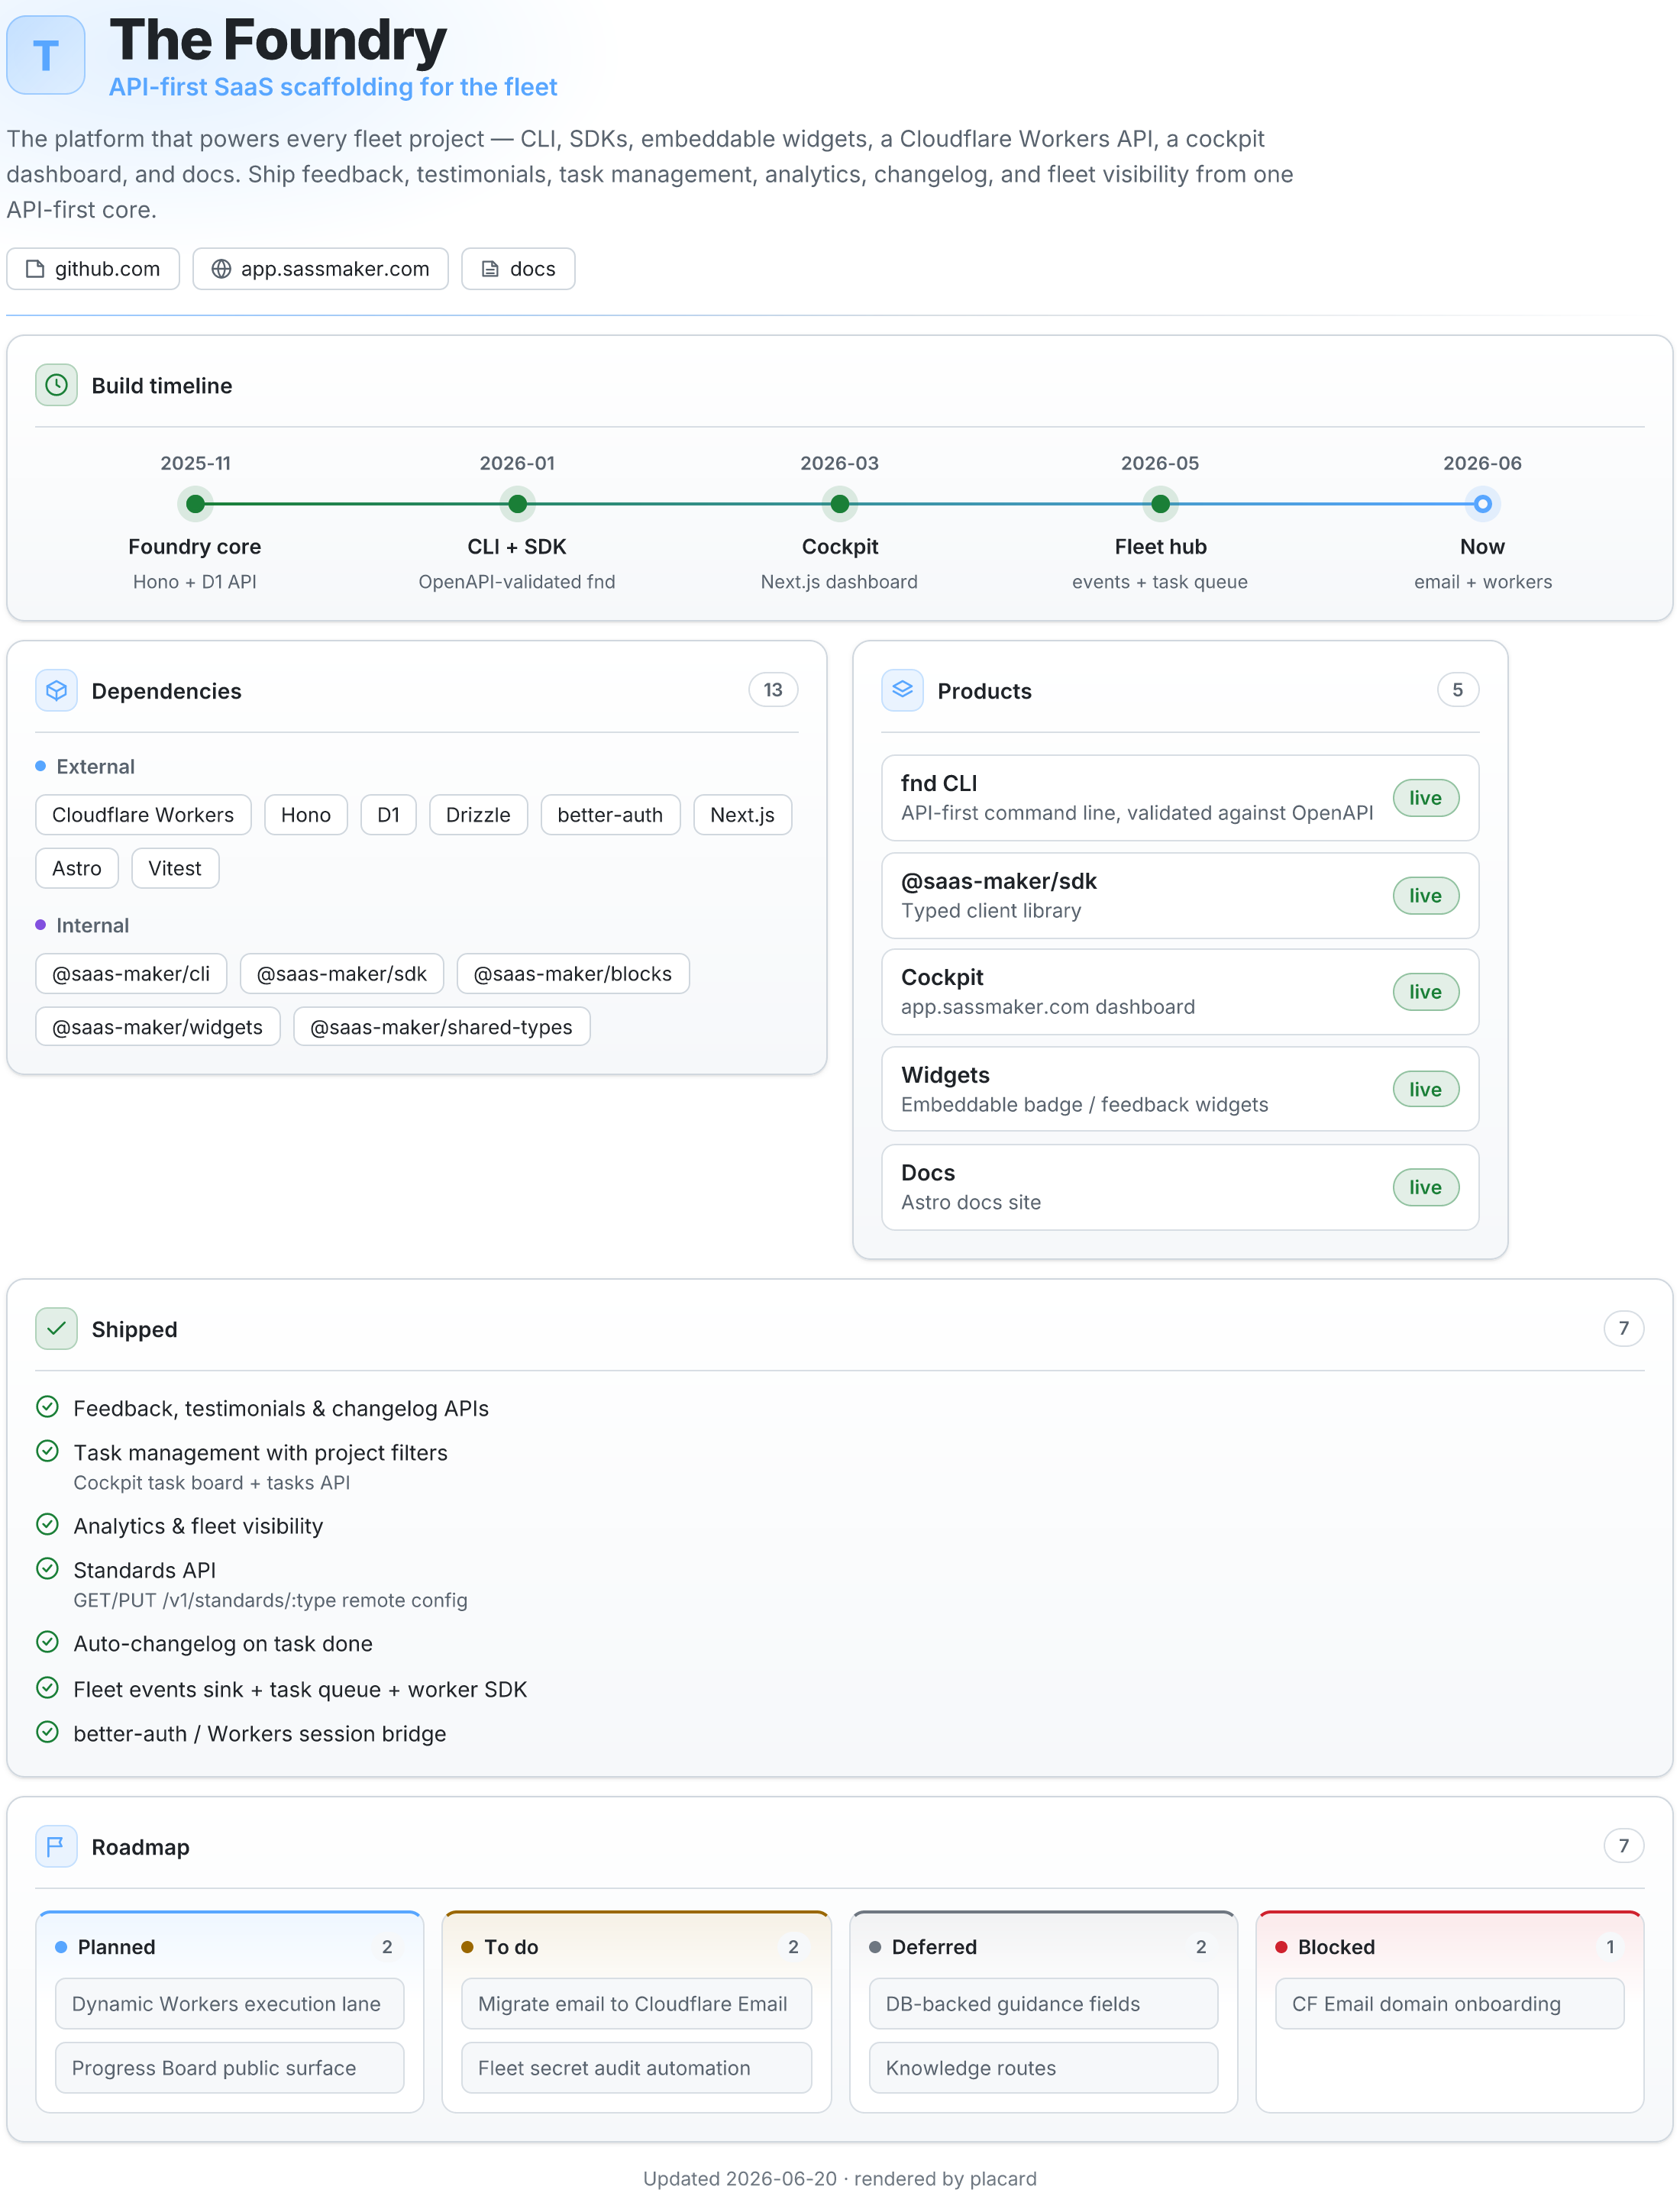
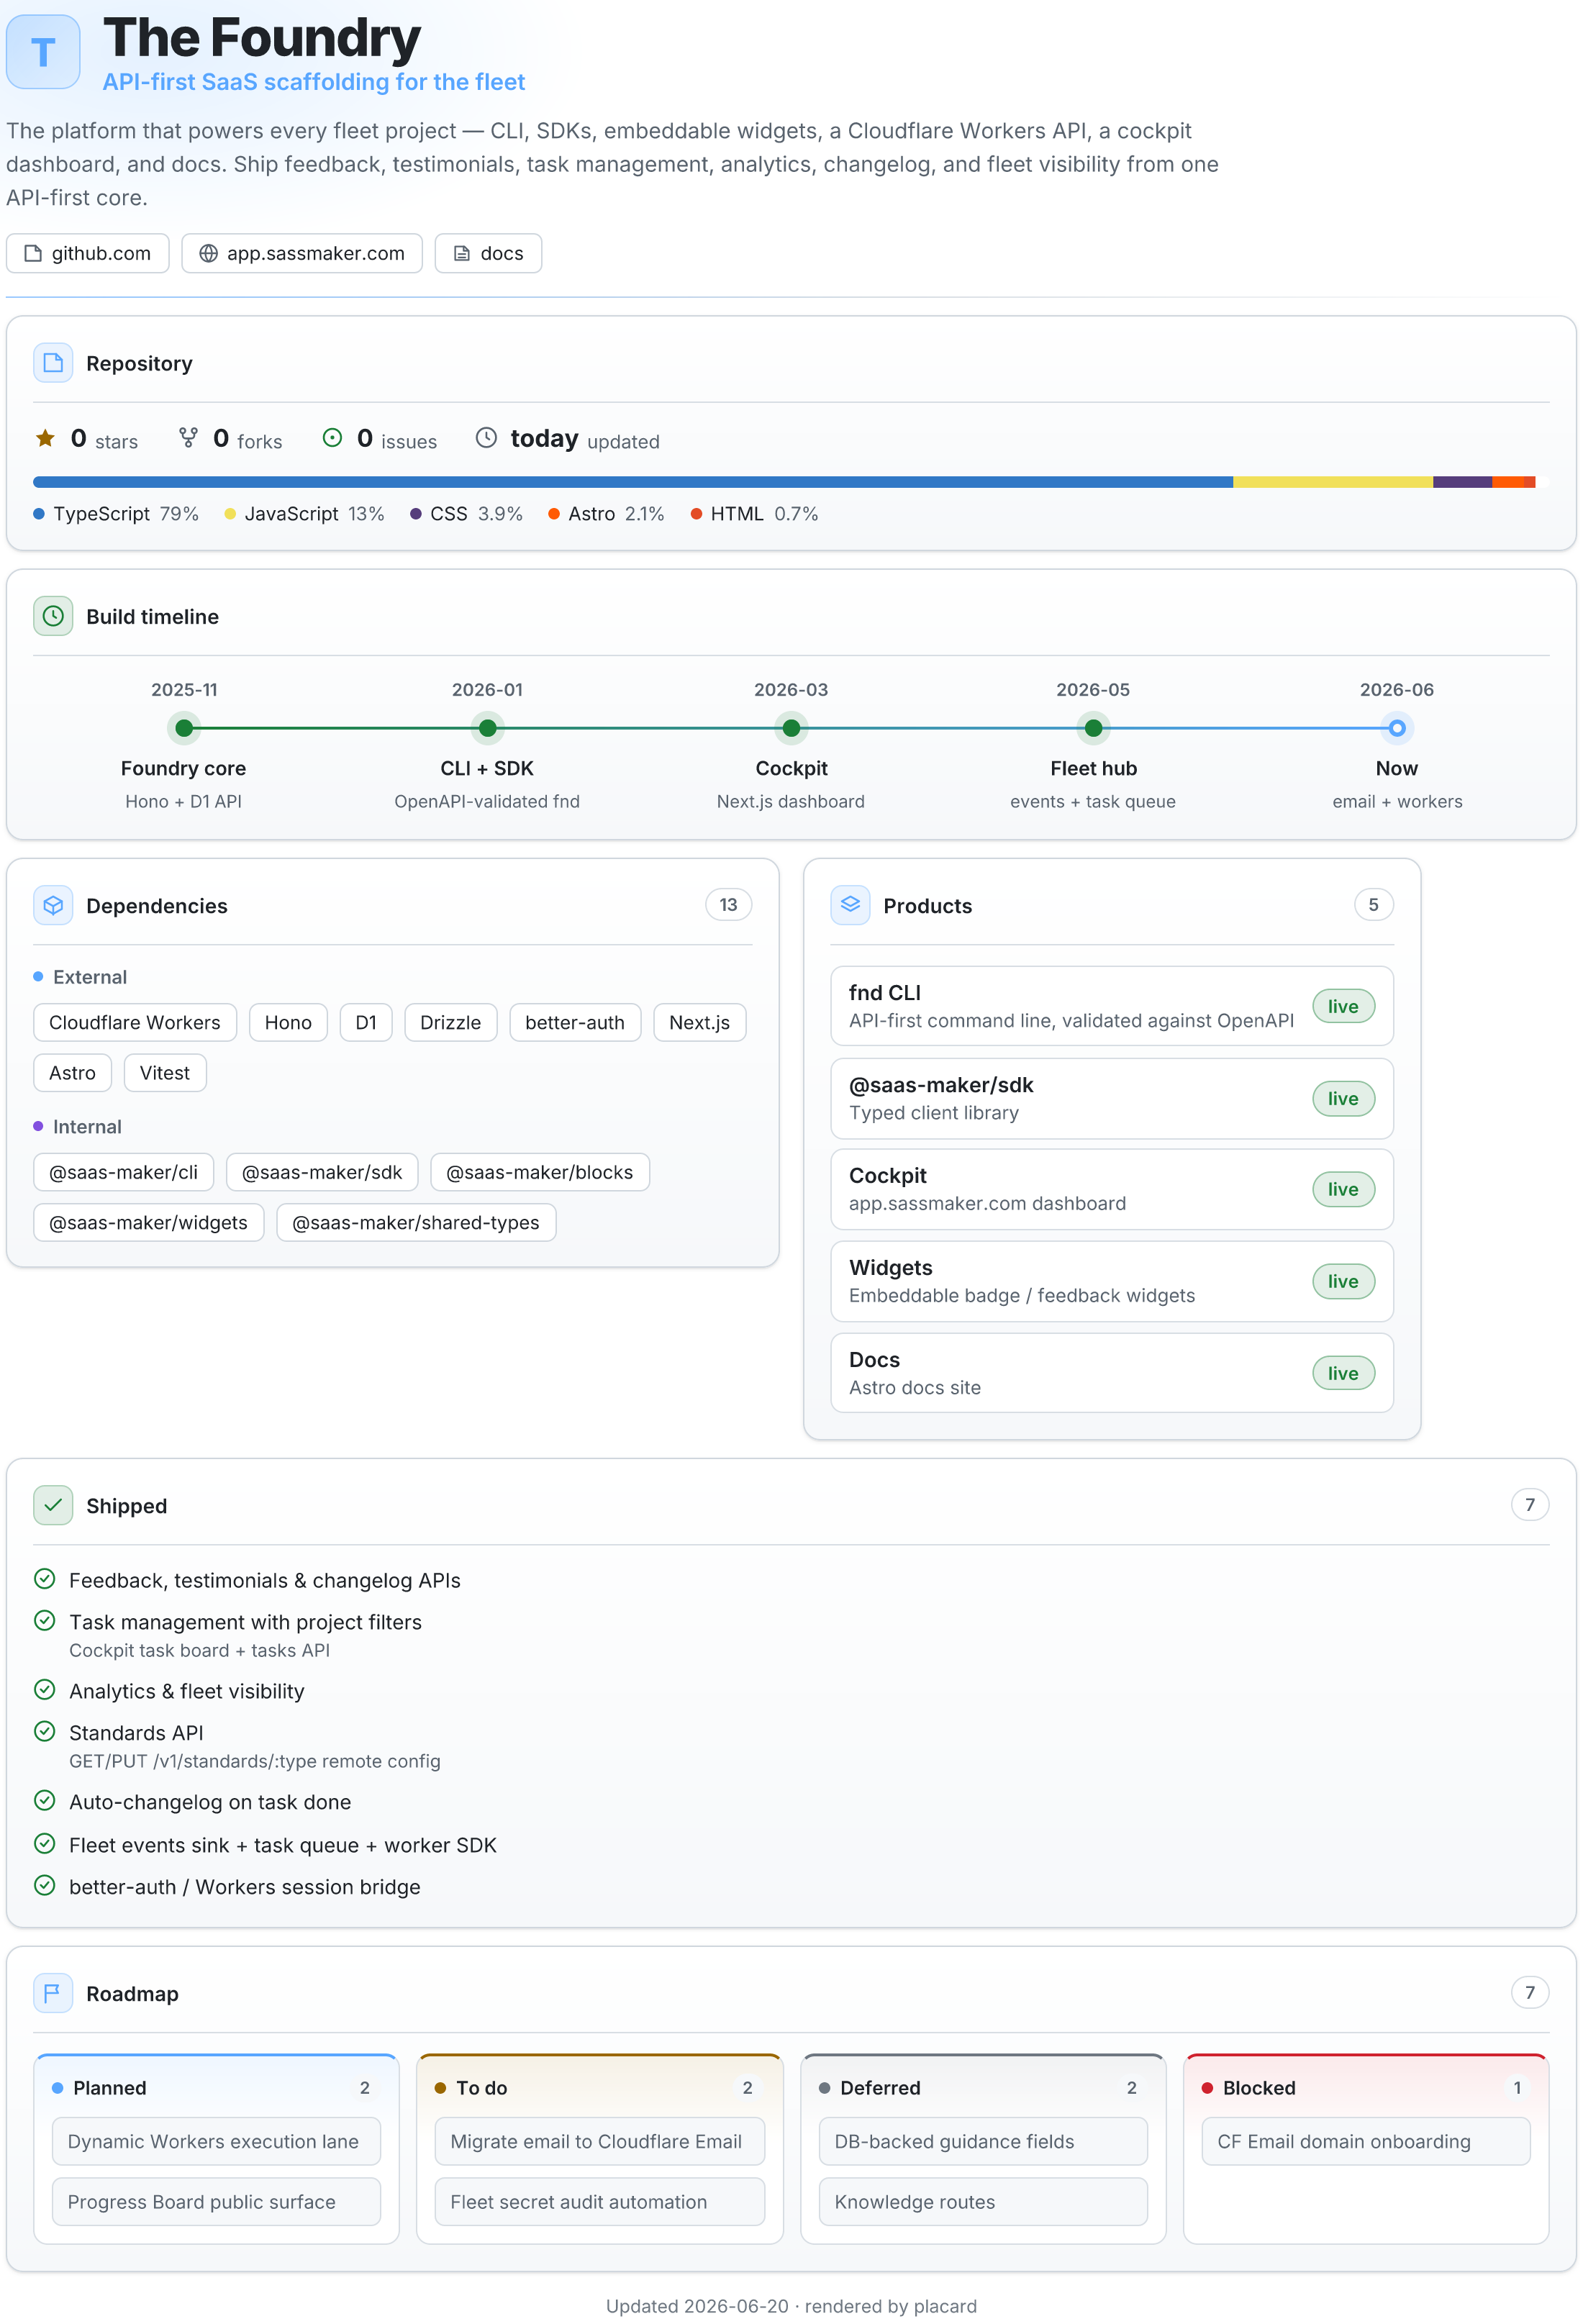
Live data: GitHub stats section (stars/forks/issues + language bar)
Auto-fetches from the GitHub API when a repo link is present; best-effort with
graceful fallback. New: lib/github.ts, lib/langcolors.ts, sections/stats.ts.

diff --git a/lib/sections/stats.ts b/lib/sections/stats.ts
@@ -1,0 +1,73 @@
+import { h, vbox, hbox, text } from "../h.js";
+import { box, dot, iconTile } from "../ui.js";
+import { icons } from "../icons.js";
+import { langColor } from "../langcolors.js";
+import type { El, Theme } from "../types.js";
+import type { RepoStats } from "../github.js";
+
+const fmt = (n: number): string =>
+  n >= 1000 ? `${(n / 1000).toFixed(n >= 10000 ? 0 : 1)}k` : String(n);
+
+function ago(iso: string): string {
+  if (!iso) return "";
+  const then = Date.parse(iso);
+  if (Number.isNaN(then)) return "";
+  const days = Math.floor((Date.now() - then) / 86_400_000);
+  if (days <= 0) return "today";
+  if (days === 1) return "yesterday";
+  if (days < 30) return `${days}d ago`;
+  if (days < 365) return `${Math.floor(days / 30)}mo ago`;
+  return `${Math.floor(days / 365)}y ago`;
+}
+
+const metric = (t: Theme, icon: El, value: string, label: string): El =>
+  hbox(
+    { alignItems: "center", gap: 9 },
+    icon,
+    hbox(
+      { alignItems: "baseline", gap: 5 },
+      text(value, { fontSize: 17, fontWeight: 700, color: t.text }),
+      text(label, { fontSize: 13, color: t.muted })
+    )
+  );
+
+export function stats(t: Theme, s: RepoStats): El {
+  const metrics: El[] = [
+    metric(t, icons.star!({ size: 17, color: t.status.todo }), fmt(s.stars), "stars"),
+    metric(t, icons.fork!({ size: 16, color: t.muted }), fmt(s.forks), "forks"),
+    metric(t, icons.issue!({ size: 16, color: t.status.done }), fmt(s.issues), "issues"),
+  ];
+  if (s.pushedAt) metrics.push(metric(t, icons.clock!({ size: 16, color: t.muted }), ago(s.pushedAt), "updated"));
+
+  const langs = s.languages;
+  const bar =
+    langs.length > 0
+      ? vbox(
+          { gap: 10, marginTop: 16 },
+          hbox(
+            { width: "100%", height: 8, borderRadius: 999, overflow: "hidden", background: t.inset },
+            ...langs.map((l, i) =>
+              h("div", { style: { display: "flex", width: `${l.pct}%`, height: "100%", background: langColor(l.name, i) } })
+            )
+          ),
+          hbox(
+            { gap: 16, flexWrap: "wrap" },
+            ...langs.map((l, i) =>
+              hbox(
+                { alignItems: "center", gap: 6 },
+                dot(langColor(l.name, i), 8),
+                text(l.name, { fontSize: 13, fontWeight: 500, color: t.text }),
+                text(`${l.pct.toFixed(l.pct < 10 ? 1 : 0)}%`, { fontSize: 13, color: t.muted })
+              )
+            )
+          )
+        )
+      : null;
+
+  return box(
+    t,
+    { title: "Repository", icon: iconTile(icons.repo!({ size: 16, color: t.accent }), t.accent, t) },
+    hbox({ gap: 26, flexWrap: "wrap", alignItems: "center" }, ...metrics),
+    bar
+  );
+}

diff --git a/lib/github.ts b/lib/github.ts
@@ -1,0 +1,63 @@
+// Live, unauthenticated GitHub data for the stats section. Best-effort: any
+// failure returns null so the card still renders without stats. The rendered
+// image is edge-cached, so the API is hit rarely (well under the 60/hr limit).
+
+export interface RepoStats {
+  stars: number;
+  forks: number;
+  issues: number;
+  pushedAt: string; // ISO
+  languages: { name: string; pct: number }[];
+}
+
+const API = "https://api.github.com";
+
+// Derive "owner/repo" from a github.com URL or an "owner/repo" string.
+export function parseRepo(input: string): { owner: string; repo: string } | null {
+  if (!input) return null;
+  let path = input.trim();
+  const m = path.match(/github\.com[/:]([^/]+)\/([^/]+?)(?:\.git)?\/?$/i);
+  if (m) return { owner: m[1]!, repo: m[2]! };
+  const slug = path.match(/^([\w.-]+)\/([\w.-]+)$/);
+  if (slug) return { owner: slug[1]!, repo: slug[2]! };
+  return null;
+}
+
+const headers = {
+  accept: "application/vnd.github+json",
+  "user-agent": "placard-card",
+  ...(process.env.GITHUB_TOKEN ? { authorization: `Bearer ${process.env.GITHUB_TOKEN}` } : {}),
+};
+
+export async function fetchRepoStats(owner: string, repo: string): Promise<RepoStats | null> {
+  try {
+    const [repoRes, langRes] = await Promise.all([
+      fetch(`${API}/repos/${owner}/${repo}`, { headers }),
+      fetch(`${API}/repos/${owner}/${repo}/languages`, { headers }),
+    ]);
+    if (!repoRes.ok) return null;
+    const r = (await repoRes.json()) as Record<string, unknown>;
+
+    let languages: { name: string; pct: number }[] = [];
+    if (langRes.ok) {
+      const langs = (await langRes.json()) as Record<string, number>;
+      const total = Object.values(langs).reduce((a, b) => a + b, 0) || 1;
+      languages = Object.entries(langs)
+        .sort((a, b) => b[1] - a[1])
+        .slice(0, 5)
+        .map(([name, bytes]) => ({ name, pct: (bytes / total) * 100 }));
+    }
+
+    return {
+      stars: num(r.stargazers_count),
+      forks: num(r.forks_count),
+      issues: num(r.open_issues_count),
+      pushedAt: typeof r.pushed_at === "string" ? r.pushed_at : "",
+      languages,
+    };
+  } catch {
+    return null;
+  }
+}
+
+const num = (v: unknown): number => (typeof v === "number" ? v : 0);

diff --git a/lib/icons.ts b/lib/icons.ts
@@ -28,6 +28,25 @@ function icon(paths: string[], o: IconOpts = {}): El {
   };
 }
 
+// Variant for icons that need non-path elements (circles/lines).
+function iconEl(children: El[], o: IconOpts = {}): El {
+  const { size = 18, color = "currentColor", fill = "none", strokeWidth = 2 } = o;
+  return {
+    type: "svg",
+    props: {
+      width: size,
+      height: size,
+      viewBox: "0 0 24 24",
+      fill,
+      stroke: color,
+      strokeWidth,
+      strokeLinecap: "round",
+      strokeLinejoin: "round",
+      children,
+    },
+  };
+}
+
 type Icon = (o?: IconOpts) => El;
 
 export const icons: Record<string, Icon> = {
@@ -40,5 +59,23 @@ export const icons: Record<string, Icon> = {
   package: (o) => icon(["M21 8l-9-5-9 5v8l9 5 9-5z", "M3 8l9 5 9-5", "M12 13v9"], o),
   layers: (o) => icon(["M12 3l9 5-9 5-9-5z", "M3 13l9 5 9-5"], o),
   flag: (o) => icon(["M4 22V4", "M4 4h13l-2 4 2 4H4"], o),
+  star: (o) =>
+    icon(["M12 2.5l2.9 5.9 6.5.95-4.7 4.58 1.1 6.47L12 17.4l-5.8 3.05 1.1-6.47L2.6 9.35l6.5-.95z"], {
+      ...o,
+      fill: o?.color ?? "currentColor",
+      strokeWidth: 0,
+    }),
+  fork: (o) =>
+    iconEl(
+      [
+        h("circle", { cx: 6, cy: 5, r: 2.6 }),
+        h("circle", { cx: 18, cy: 5, r: 2.6 }),
+        h("circle", { cx: 12, cy: 19, r: 2.6 }),
+        h("path", { d: "M6 7.6V10a3 3 0 003 3h6a3 3 0 003-3V7.6" }),
+        h("path", { d: "M12 13v3.4" }),
+      ],
+      o
+    ),
+  issue: (o) => iconEl([h("circle", { cx: 12, cy: 12, r: 9 }), h("circle", { cx: 12, cy: 12, r: 1, fill: o?.color ?? "currentColor" })], o),
   spark: (o) => icon(["M12 3v4", "M12 17v4", "M3 12h4", "M17 12h4", "M6 6l2 2", "M16 16l2 2", "M18 6l-2 2", "M8 16l-2 2"], o),
 };

diff --git a/lib/langcolors.ts b/lib/langcolors.ts
@@ -1,0 +1,37 @@
+// GitHub's language colors (subset of common languages). Fallback for unknown.
+const COLORS: Record<string, string> = {
+  TypeScript: "#3178c6",
+  JavaScript: "#f1e05a",
+  Python: "#3572A5",
+  Rust: "#dea584",
+  Go: "#00ADD8",
+  Java: "#b07219",
+  C: "#555555",
+  "C++": "#f34b7d",
+  "C#": "#178600",
+  Ruby: "#701516",
+  PHP: "#4F5D95",
+  Swift: "#F05138",
+  Kotlin: "#A97BFF",
+  Dart: "#00B4AB",
+  HTML: "#e34c26",
+  CSS: "#563d7c",
+  SCSS: "#c6538c",
+  Shell: "#89e051",
+  Vue: "#41b883",
+  Svelte: "#ff3e00",
+  Astro: "#ff5a03",
+  Elixir: "#6e4a7e",
+  Scala: "#c22d40",
+  Lua: "#000080",
+  Zig: "#ec915c",
+  Nix: "#7e7eff",
+  MDX: "#fcb32c",
+  Dockerfile: "#384d54",
+};
+
+const FALLBACK = ["#3178c6", "#3fb950", "#d29922", "#a371f7", "#f85149"];
+
+export function langColor(name: string, i = 0): string {
+  return COLORS[name] ?? FALLBACK[i % FALLBACK.length]!;
+}

diff --git a/lib/render.ts b/lib/render.ts
@@ -5,6 +5,8 @@ import { resolveTheme, FONT_FAMILY } from "./theme.js";
 import { loadFonts } from "./fonts.js";
 import { twoCol } from "./ui.js";
 import { header } from "./sections/header.js";
+import { stats as statsSection } from "./sections/stats.js";
+import { fetchRepoStats, type RepoStats } from "./github.js";
 import { dependencies } from "./sections/dependencies.js";
 import { timeline } from "./sections/timeline.js";
 import { products } from "./sections/products.js";
@@ -17,16 +19,21 @@ type SatoriFonts = Parameters<typeof satori>[1]["fonts"];
 
 const PAD = 4; // tiny inset so 1px panel borders aren't clipped at the image edge
 
-function buildTree(t: Theme, cfg: ProjectConfig, width: number): El {
+function buildTree(t: Theme, cfg: ProjectConfig, width: number, repoStats: RepoStats | null): El {
   const deps = dependencies(t, cfg);
   const prods = products(t, cfg);
 
   // dependencies + products share a row when both exist; otherwise full width.
   const depRow = deps && prods ? twoCol(deps, prods) : deps || prods;
 
-  const sections = [header(t, cfg), timeline(t, cfg), depRow, features(t, cfg), roadmap(t, cfg)].filter(
-    (s): s is El => Boolean(s)
-  );
+  const sections = [
+    header(t, cfg),
+    repoStats ? statsSection(t, repoStats) : null,
+    timeline(t, cfg),
+    depRow,
+    features(t, cfg),
+    roadmap(t, cfg),
+  ].filter((s): s is El => Boolean(s));
 
   const footer = hbox(
     { marginTop: 4, alignItems: "center", justifyContent: "center", gap: 8 },
@@ -47,7 +54,8 @@ export async function renderCard(cfg: ProjectConfig, opts: RenderOpts = {}): Pro
   // theme.mode is only the default when no mode is requested.
   const finalMode = mode || cfg.theme.mode || "dark";
   const t = resolveTheme(finalMode, cfg.theme.accent);
-  const tree = buildTree(t, cfg, width);
+  const repoStats = cfg.stats && cfg.github ? await fetchRepoStats(cfg.github.owner, cfg.github.repo) : null;
+  const tree = buildTree(t, cfg, width, repoStats);
   const fonts = await loadFonts();
   const svg = await satori(tree as unknown as SatoriNode, { width, fonts: fonts as unknown as SatoriFonts });
 

diff --git a/lib/config.ts b/lib/config.ts
@@ -1,5 +1,6 @@
 // Fetch + normalize a project.json into the shape every section renderer expects.
 // Source is a raw URL (?src=) so any repo can host its own config.
+import { parseRepo } from "./github.js";
 import type { Item, ProjectConfig, ThemeMode } from "./types.js";
 
 const MAX_BYTES = 256 * 1024;
@@ -72,6 +73,8 @@ export function normalize(input: unknown): ProjectConfig {
       site: str(links.site ?? links.homepage),
       docs: str(links.docs),
     },
+    github: parseRepo(str(raw.github) || str(links.repo)),
+    stats: raw.stats !== false,
     theme: { accent: str(t.accent), mode },
     dependencies: { external: asList(deps.external), internal: asList(deps.internal) },
     timeline: Array.isArray(raw.timeline)

diff --git a/lib/types.ts b/lib/types.ts
@@ -33,6 +33,8 @@ export interface ProjectConfig {
   tagline: string;
   why: string;
   links: { repo: string; site: string; docs: string };
+  github: { owner: string; repo: string } | null;
+  stats: boolean;
   theme: { accent: string; mode: ThemeMode | undefined };
   dependencies: { external: Item[]; internal: Item[] };
   timeline: TimelineEntry[];

diff --git a/README.md b/README.md
@@ -9,9 +9,9 @@ One image shows the whole project at a glance: what it is and why, build timelin
   <a href="https://placard-coral.vercel.app">
     <picture>
       <source media="(prefers-color-scheme: light)"
-              srcset="https://placard-coral.vercel.app/api/card?src=https://raw.githubusercontent.com/sarthakagrawal927/placard/main/project.json&theme=light&v=5">
+              srcset="https://placard-coral.vercel.app/api/card?src=https://raw.githubusercontent.com/sarthakagrawal927/placard/main/project.json&theme=light&v=6">
       <img alt="placard project card"
-           src="https://placard-coral.vercel.app/api/card?src=https://raw.githubusercontent.com/sarthakagrawal927/placard/main/project.json&theme=dark&v=5">
+           src="https://placard-coral.vercel.app/api/card?src=https://raw.githubusercontent.com/sarthakagrawal927/placard/main/project.json&theme=dark&v=6">
     </picture>
   </a>
 </p>